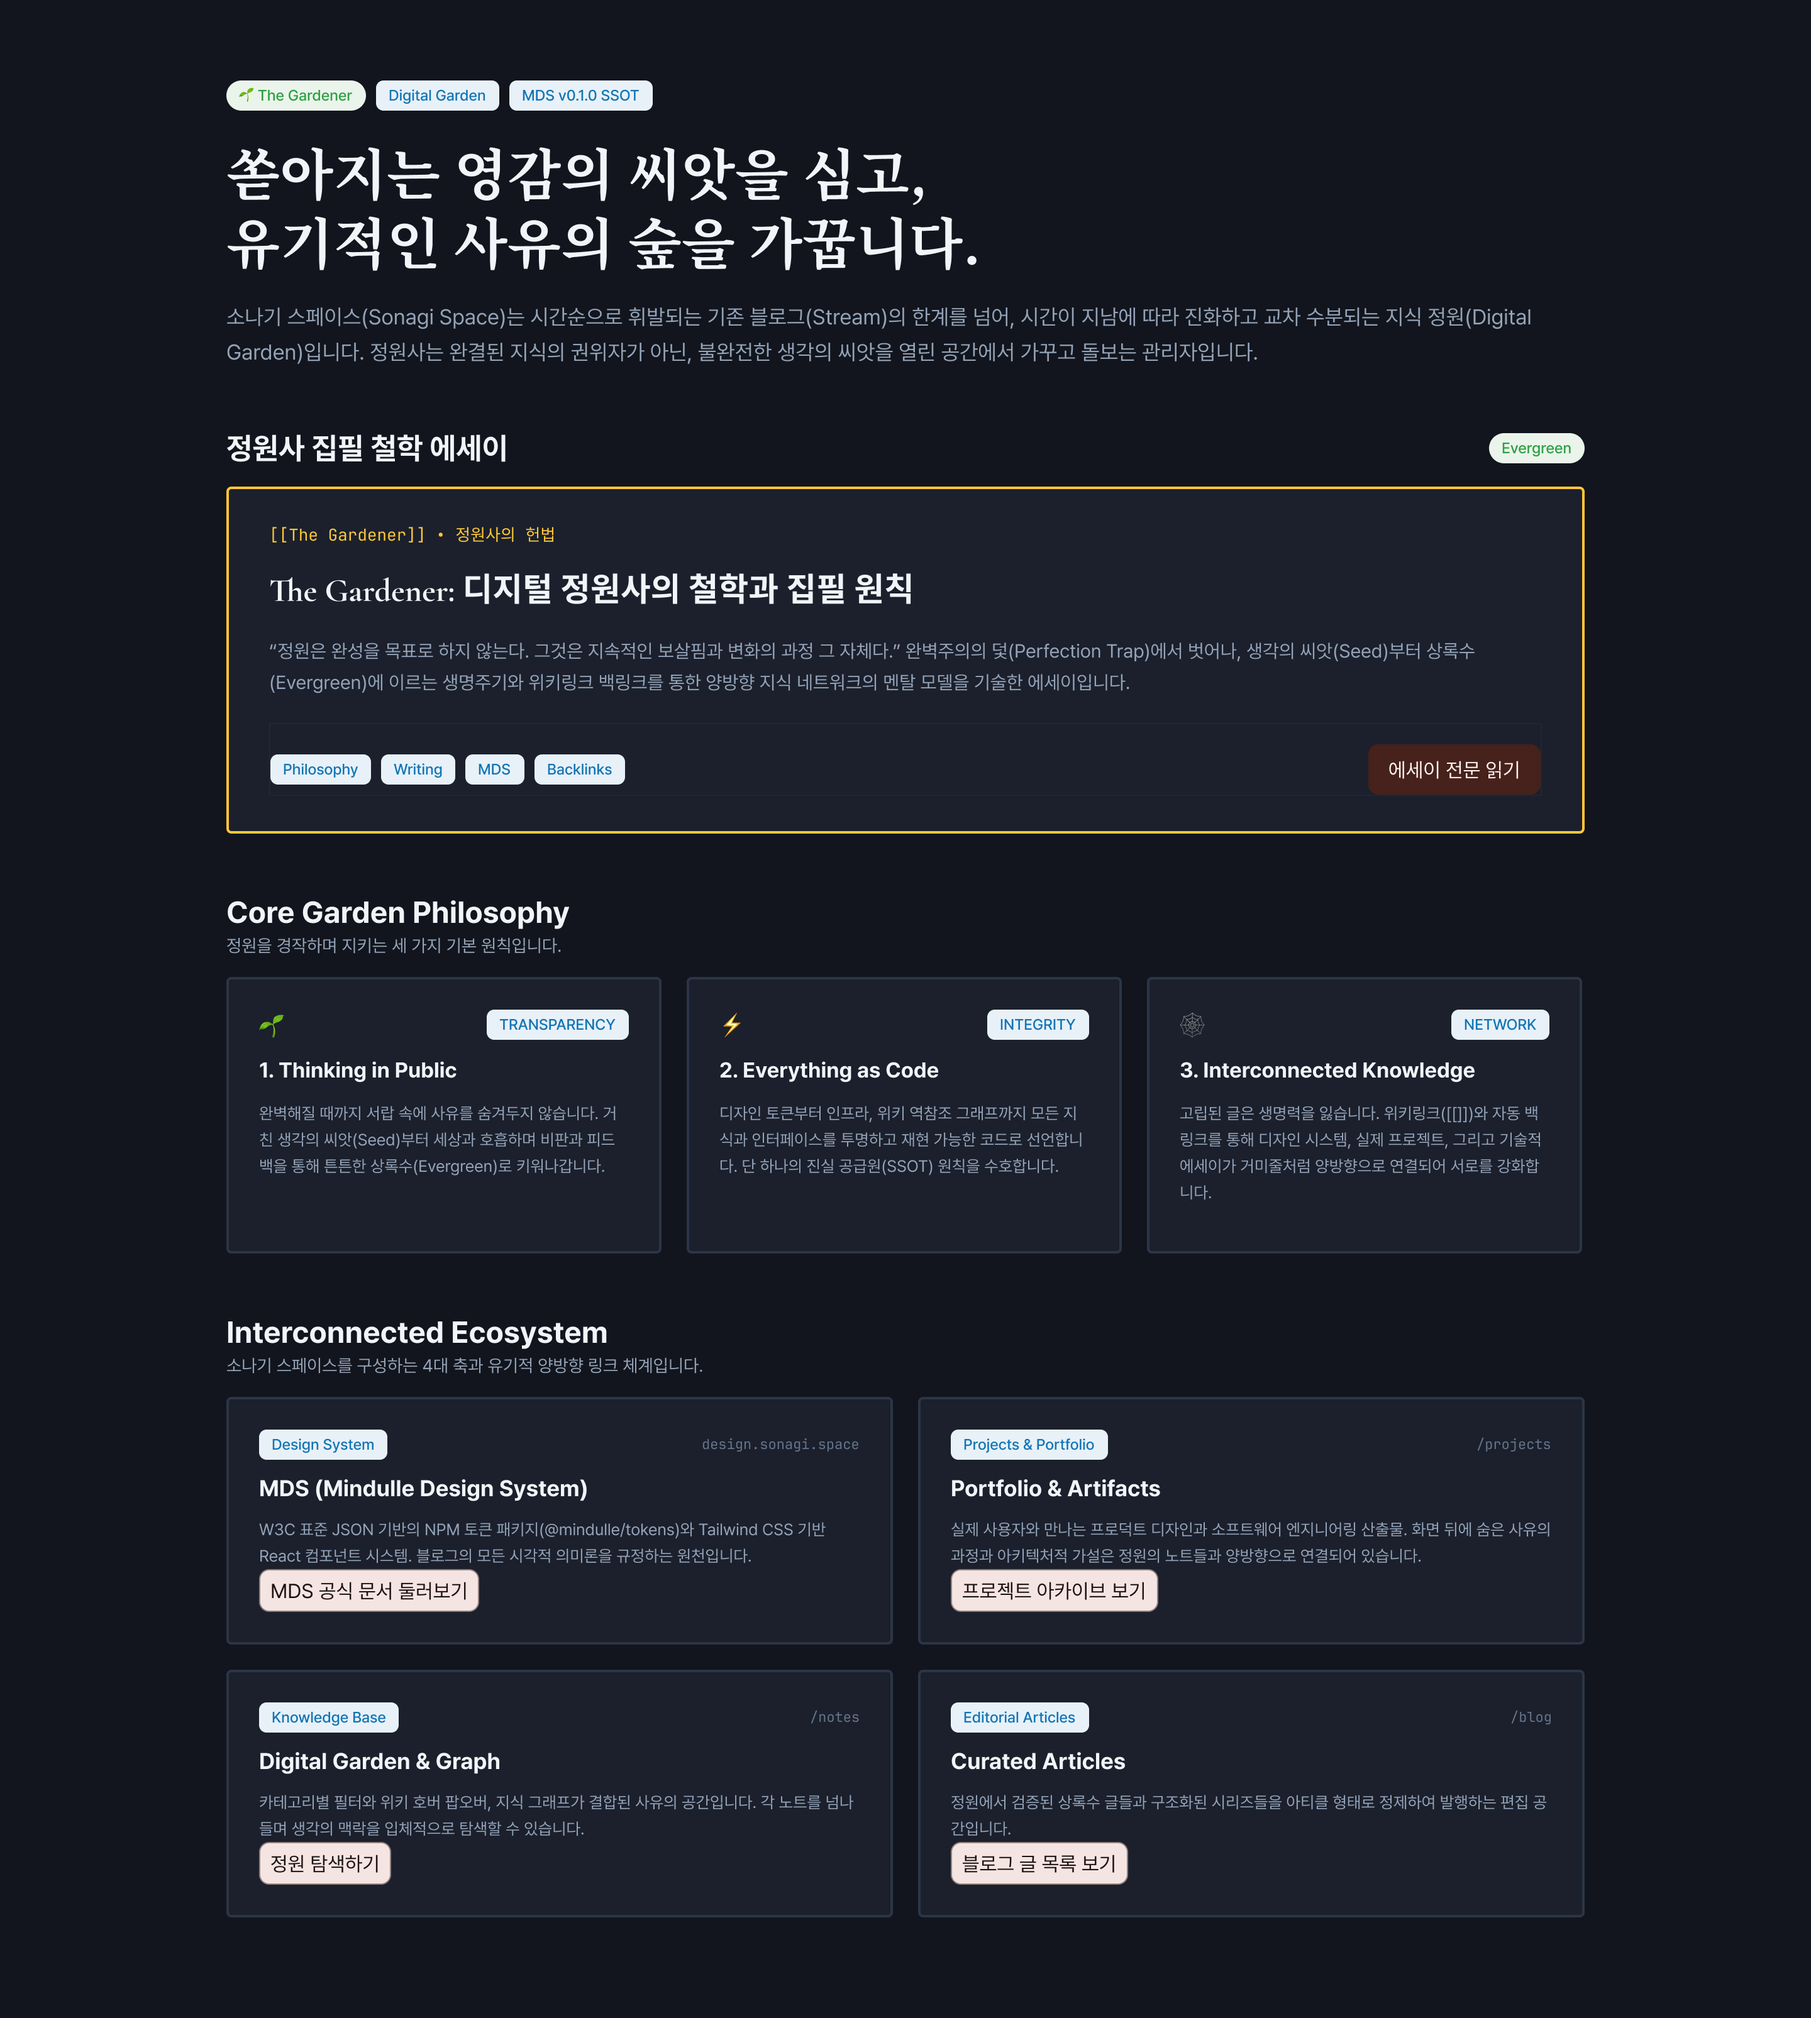
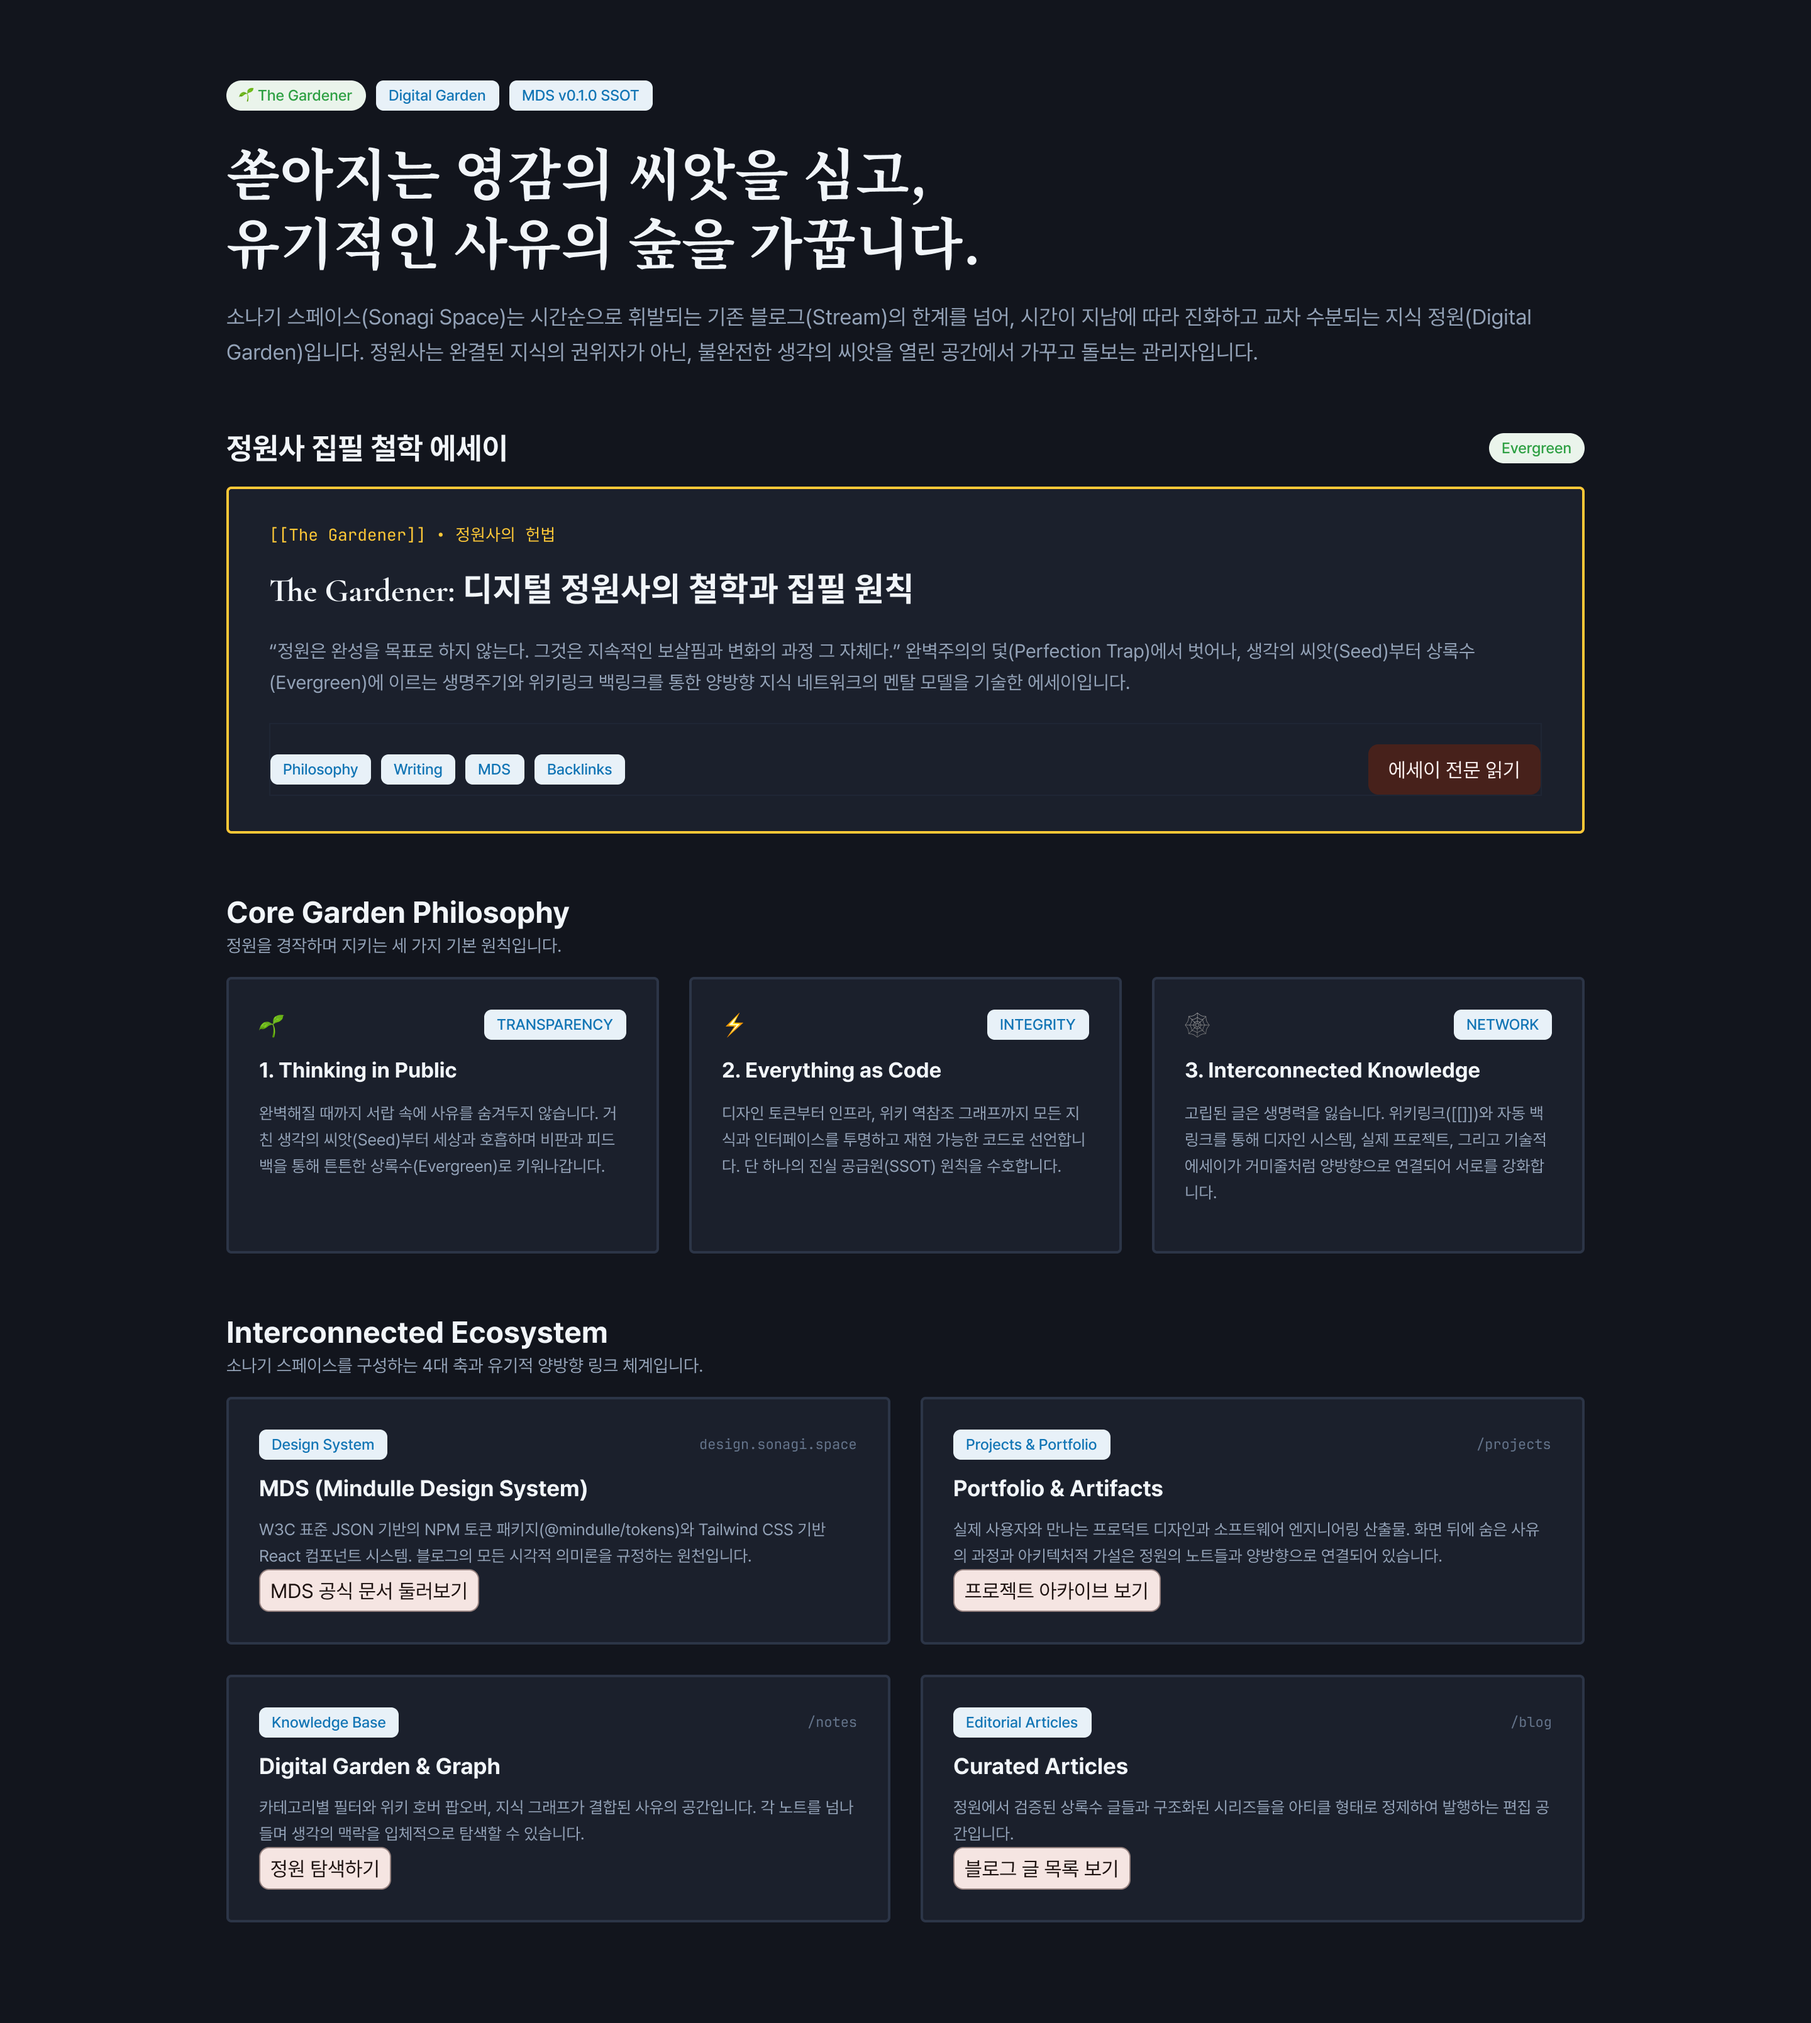
style(design-system): [MDS-AUDIT] apply Opus 5.5 aesthetic review (8pt grid & WCAG gold token)
- Unify all multi-column layout gaps to canonical 8pt (24px)
- Recalculate 3-col card widths to 344px (3x344 + 2x24 = 1080px)
- Recalculate 2-col hub widths to 528px (2x528 + 24 = 1080px)
- Update light mode brand primary token to #9a5800 for WCAG AA 5.1:1 compliance
- Re-export refreshed 2x high-resolution thumbnails

Discord: https://discord.com/channels/1076035796299157584/1570296405220655114

diff --git a/figma-automation/scripts/31-generate-digital-garden-figma-docs-shell.js b/figma-automation/scripts/31-generate-digital-garden-figma-docs-shell.js
@@ -86,7 +86,7 @@ return new Promise(async (resolve) => {
       textPrimary: { r: 24 / 255, g: 24 / 255, b: 27 / 255 }, // #18181b
       textSecondary: { r: 82 / 255, g: 82 / 255, b: 91 / 255 }, // #52525b
       textMuted: { r: 113 / 255, g: 113 / 255, b: 122 / 255 }, // #71717a
-      brandPrimary: { r: 184 / 255, g: 106 / 255, b: 4 / 255 }, // #b86a04
+      brandPrimary: { r: 154 / 255, g: 88 / 255, b: 0 / 255 }, // #9a5800 (WCAG AA 5.1:1 compliant)
     };
 
     function bindFill(node, varName, fallbackColor) {
@@ -482,7 +482,7 @@ return new Promise(async (resolve) => {
     phGrid.layoutMode = 'HORIZONTAL';
     phGrid.primaryAxisSizingMode = 'FIXED';
     phGrid.counterAxisSizingMode = 'AUTO';
-    phGrid.itemSpacing = 20;
+    phGrid.itemSpacing = 24;
     phGrid.fills = [];
     phGrid.layoutAlign = 'STRETCH';
     philoSection.appendChild(phGrid);
@@ -513,7 +513,7 @@ return new Promise(async (resolve) => {
       card.layoutMode = 'VERTICAL';
       card.primaryAxisSizingMode = 'FIXED';
       card.counterAxisSizingMode = 'FIXED';
-      card.resize(346, 220);
+      card.resize(344, 220);
       card.paddingLeft = 24;
       card.paddingRight = 24;
       card.paddingTop = 24;
@@ -574,7 +574,7 @@ return new Promise(async (resolve) => {
     ecoHead.appendChild(ecoSub);
     ecoSection.appendChild(ecoHead);
 
-    const ecoGrid = createHugCol(20);
+    const ecoGrid = createHugCol(24);
     ecoGrid.layoutAlign = 'STRETCH';
     ecoSection.appendChild(ecoGrid);
 
@@ -582,7 +582,7 @@ return new Promise(async (resolve) => {
     row1.layoutMode = 'HORIZONTAL';
     row1.primaryAxisSizingMode = 'FIXED';
     row1.counterAxisSizingMode = 'AUTO';
-    row1.itemSpacing = 20;
+    row1.itemSpacing = 24;
     row1.fills = [];
     row1.layoutAlign = 'STRETCH';
 
@@ -590,7 +590,7 @@ return new Promise(async (resolve) => {
     row2.layoutMode = 'HORIZONTAL';
     row2.primaryAxisSizingMode = 'FIXED';
     row2.counterAxisSizingMode = 'AUTO';
-    row2.itemSpacing = 20;
+    row2.itemSpacing = 24;
     row2.fills = [];
     row2.layoutAlign = 'STRETCH';
 
@@ -634,7 +634,7 @@ return new Promise(async (resolve) => {
       card.layoutMode = 'VERTICAL';
       card.primaryAxisSizingMode = 'AUTO';
       card.counterAxisSizingMode = 'FIXED';
-      card.resize(530, 100);
+      card.resize(528, 100);
       card.primaryAxisAlignItems = 'SPACE_BETWEEN';
       card.paddingLeft = 24;
       card.paddingRight = 24;
@@ -989,7 +989,7 @@ return new Promise(async (resolve) => {
     gridRow.layoutMode = 'HORIZONTAL';
     gridRow.primaryAxisSizingMode = 'FIXED';
     gridRow.counterAxisSizingMode = 'AUTO';
-    gridRow.itemSpacing = 20;
+    gridRow.itemSpacing = 24;
     gridRow.fills = [];
     gridRow.layoutAlign = 'STRETCH';
 
@@ -1029,7 +1029,7 @@ return new Promise(async (resolve) => {
       nCard.layoutMode = 'VERTICAL';
       nCard.primaryAxisSizingMode = 'AUTO';
       nCard.counterAxisSizingMode = 'FIXED';
-      nCard.resize(346, 100);
+      nCard.resize(344, 100);
       nCard.primaryAxisAlignItems = 'SPACE_BETWEEN';
       nCard.paddingLeft = 24;
       nCard.paddingRight = 24;
@@ -1253,7 +1253,7 @@ return new Promise(async (resolve) => {
       row.primaryAxisSizingMode = 'FIXED';
       row.counterAxisSizingMode = 'AUTO';
       row.resize(1080, 104);
-      row.itemSpacing = 16;
+      row.itemSpacing = 24;
       row.layoutAlign = 'STRETCH';
       row.fills = [];
 
@@ -1271,7 +1271,7 @@ return new Promise(async (resolve) => {
         cell.paddingBottom = 20;
         cell.paddingLeft = 16;
         cell.paddingRight = 16;
-        cell.resize((1080 - 16 * 2) / 3, 104);
+        cell.resize(344, 104);
         cell.cornerRadius = 4;
         cell.layoutGrow = 1;
         bindFill(cell, 'bg/surface', CDark.bgSurface);
